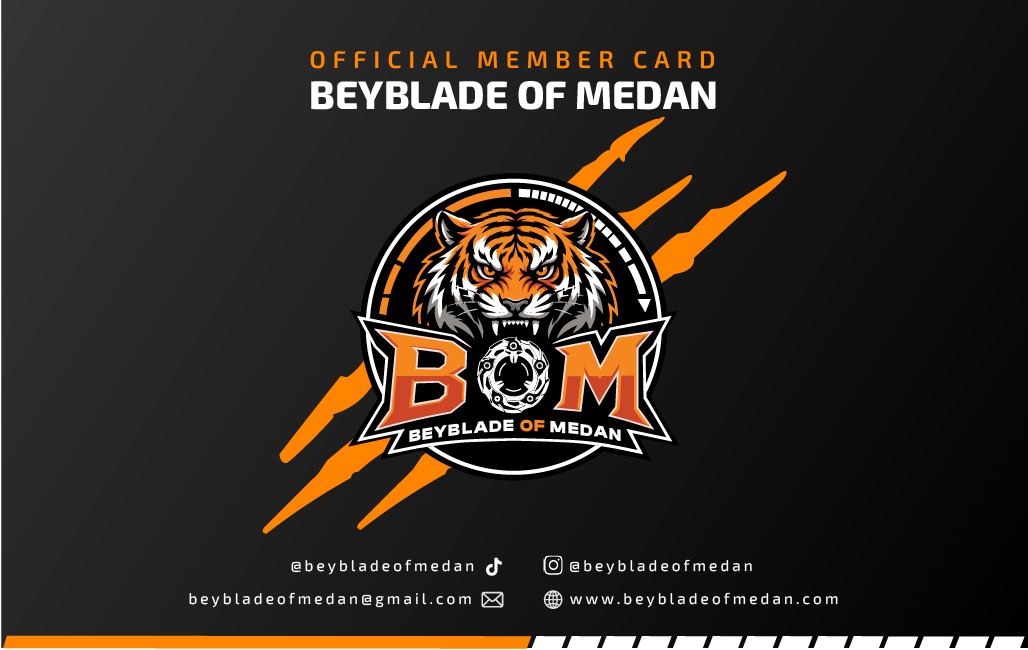
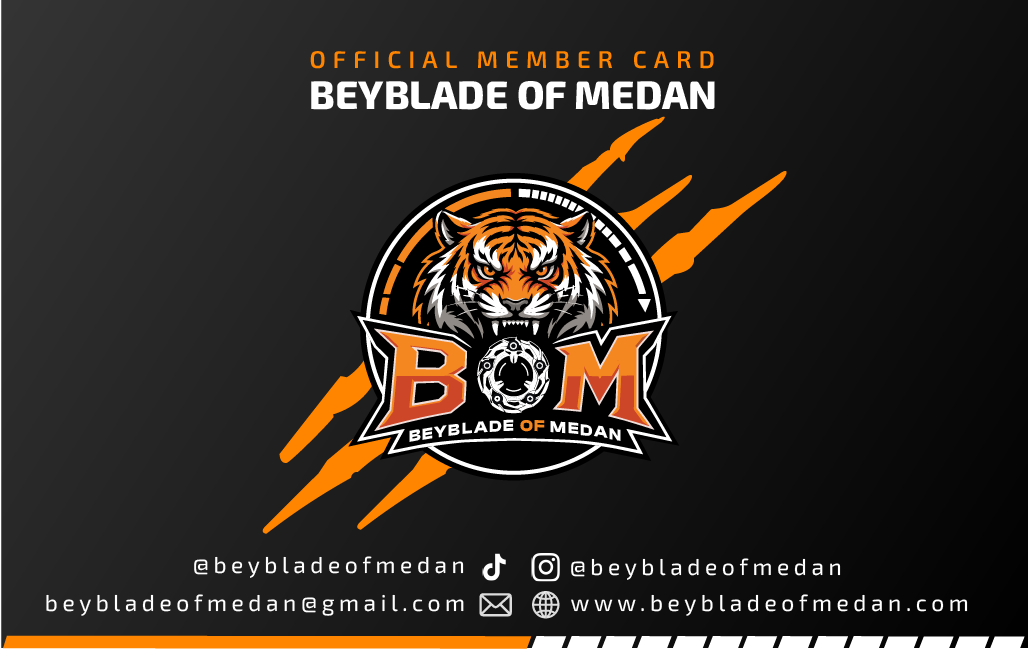
Updated card back image, bigger BOM ID, name and member since on the member card (#63)

diff --git a/src/components/bom/flippable-member-card.tsx b/src/components/bom/flippable-member-card.tsx
@@ -63,7 +63,7 @@ async function downloadFront(root: HTMLElement, bomId: string) {
   save(canvas.toDataURL("image/png"), `${bomId.toLowerCase()}-card-front.png`);
 }
 
-/** The member's card that turns over on a click or with a button to show the back (public/print/bom-emoney-11.png). */
+/** The member's card that turns over on a click or with a button to show the back (public/print/bom-emoney-04.png). */
 export function FlippableMemberCard({ bomId, bladerName, since, qr, design }: { bomId: string; bladerName: string; since: string; qr?: string; design?: "print" | "classic" }) {
   const [back, setBack] = useState(false);
   const [busy, setBusy] = useState(false);
@@ -91,7 +91,7 @@ export function FlippableMemberCard({ bomId, bladerName, since, qr, design }: { 
             <MemberCard bomId={bomId} bladerName={bladerName} since={since} qr={qr} design={design} />
           </div>
           <div className="absolute inset-0 overflow-hidden rounded-xl border border-white/10 [backface-visibility:hidden] [transform:rotateY(180deg)]" aria-hidden={!back}>
-            <Image src="/print/bom-emoney-11.png" alt="Back of the member card: TikTok, Instagram, email and website of Beyblade of Medan" fill sizes="(min-width: 768px) 26rem, 100vw" className="object-cover" />
+            <Image src="/print/bom-emoney-04.png" alt="Back of the member card: TikTok, Instagram, email and website of Beyblade of Medan" fill sizes="(min-width: 768px) 26rem, 100vw" className="object-cover" />
           </div>
         </div>
         <div aria-hidden className="pointer-events-none absolute inset-0 grid place-items-center opacity-0 transition-opacity duration-200 group-hover:opacity-100 group-focus-within:opacity-100">
@@ -100,7 +100,7 @@ export function FlippableMemberCard({ bomId, bladerName, since, qr, design }: { 
       </div>
       <div className="flex flex-wrap justify-center gap-2">
         <Button type="button" variant="outline" size="sm" onClick={front} disabled={busy}><Download aria-hidden />Download front</Button>
-        <Button type="button" variant="outline" size="sm" onClick={() => save("/print/bom-emoney-11.png", `${bomId.toLowerCase()}-card-back.png`)}><Download aria-hidden />Download back</Button>
+        <Button type="button" variant="outline" size="sm" onClick={() => save("/print/bom-emoney-04.png", `${bomId.toLowerCase()}-card-back.png`)}><Download aria-hidden />Download back</Button>
       </div>
     </div>
   );

diff --git a/src/components/bom/member-card.tsx b/src/components/bom/member-card.tsx
@@ -20,18 +20,18 @@ export function MemberCard({ bomId, bladerName, since, qr, design = "print" }: {
       ) : (
         <Image src="/print/bom-emoney-10.png" alt="" fill sizes="(min-width: 768px) 26rem, 100vw" priority className="object-cover" />
       )}
-      <div className="absolute bottom-[10%] left-[4%] space-y-[3%]">
+      <div className="absolute bottom-[9%] left-[4%] max-w-[60%] space-y-[1%]">
         <div>
-          <div data-card-text className="text-muted-foreground text-[2.2cqw] uppercase">BOM ID</div>
-          <div data-card-text className="text-primary font-display text-[8.5cqw] leading-none font-black uppercase">{bomId.toUpperCase()}</div>
+          <div data-card-text className="text-muted-foreground text-[2.8cqw] font-semibold uppercase">BOM ID</div>
+          <div data-card-text className="text-primary font-display text-[9.5cqw] leading-none font-black uppercase">{bomId.toUpperCase()}</div>
         </div>
-        <div className="mt-3">
-          <div data-card-text className="text-muted-foreground text-[2.2cqw] uppercase">Beyblader name</div>
-          <div data-card-text className="font-display text-[5cqw] leading-tight font-bold">{bladerName}</div>
+        <div className="mt-1">
+          <div data-card-text className="text-muted-foreground text-[2.8cqw] font-semibold uppercase">Beyblader name</div>
+          <div data-card-text className="font-display text-[5.5cqw] leading-tight font-bold">{bladerName}</div>
         </div>
-        <div className="mt-3">
-          <div data-card-text className="text-muted-foreground text-[2cqw] uppercase">Member since</div>
-          <div data-card-text className="text-[2.3cqw]">{since}</div>
+        <div className="mt-1">
+          <div data-card-text className="text-muted-foreground text-[2.8cqw] font-semibold uppercase">Member since</div>
+          <div data-card-text className="text-[3.2cqw] font-medium">{since}</div>
         </div>
       </div>
       {qr && (
